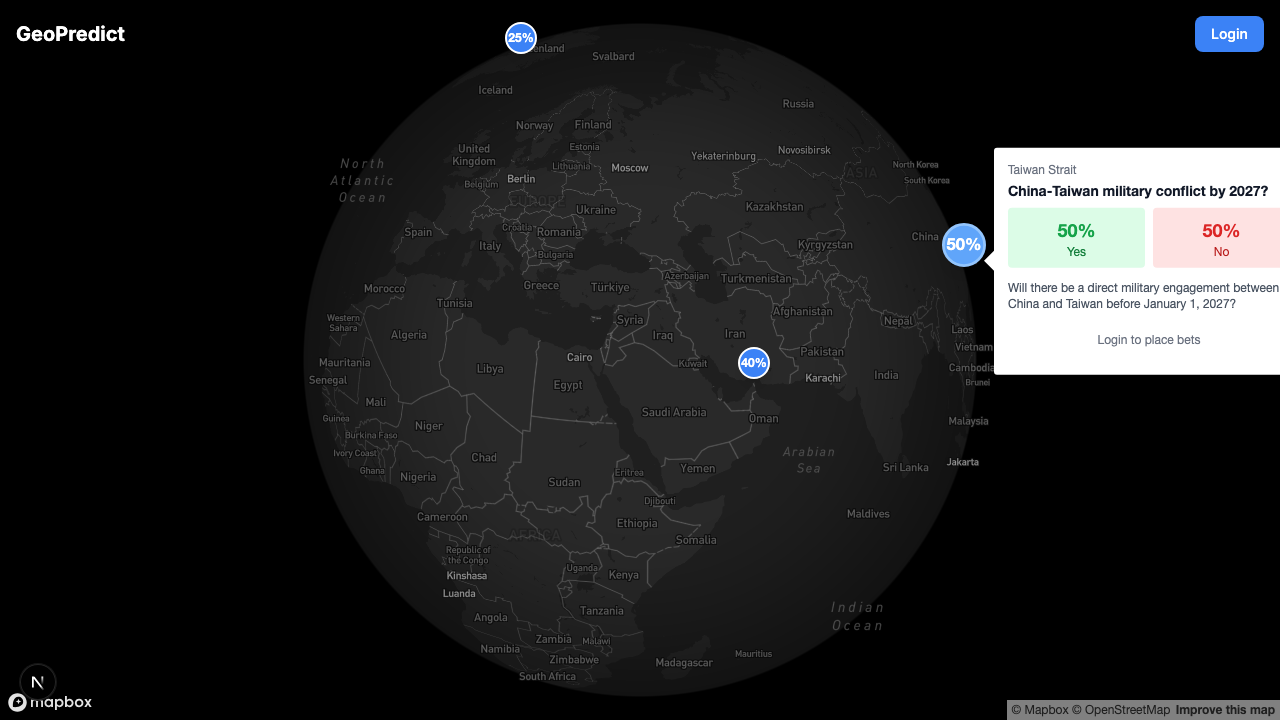
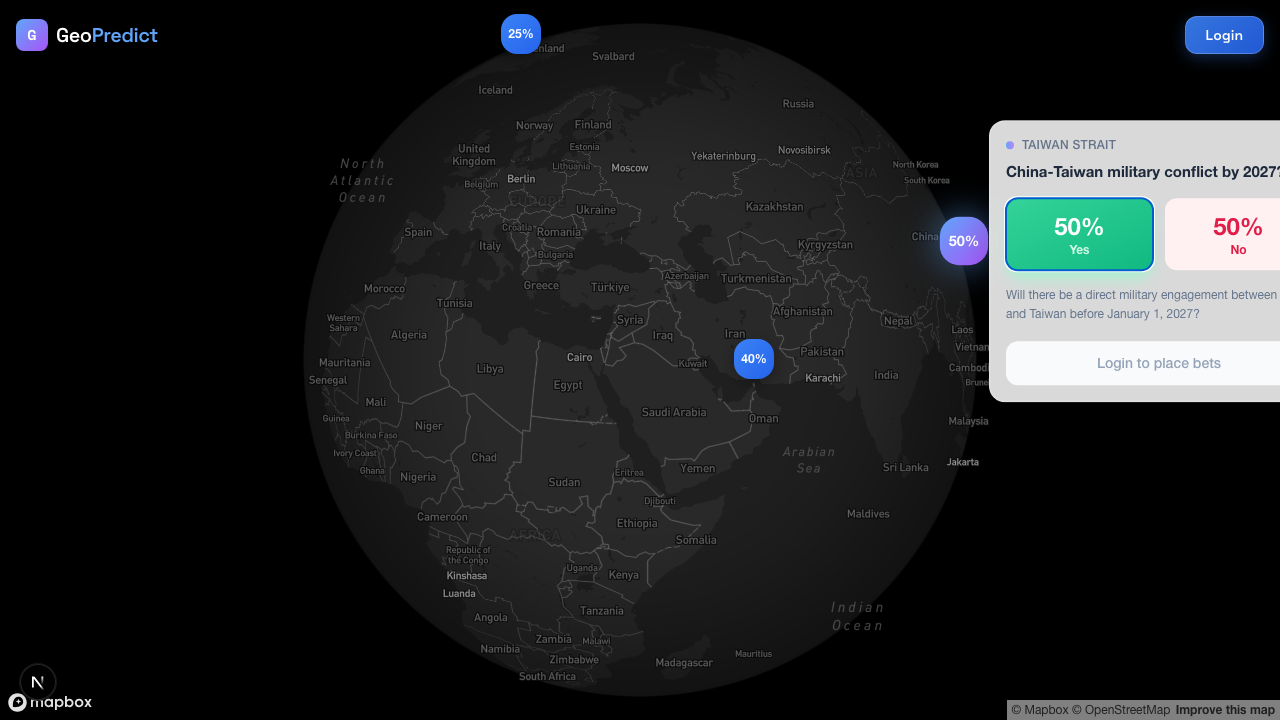
Add liquid glass UI with premium styling
- Switch to Space Grotesk font
- Add glassmorphism utilities (.glass, .glass-dark, .glass-light)
- Gradient markers with glow effects on selection
- Frosted glass popup with rounded corners
- Premium button styles with gradients and shadows
- Green/rose Yes/No selection buttons
- Logo redesign with gradient icon

diff --git a/src/components/map/Map.tsx b/src/components/map/Map.tsx
@@ -1,7 +1,7 @@
 'use client'
 
 import { useCallback, useState } from 'react'
-import MapGL, { Marker, Popup, NavigationControl, GeolocateControl } from 'react-map-gl'
+import MapGL, { Marker, Popup } from 'react-map-gl'
 import type { ViewStateChangeEvent } from 'react-map-gl'
 import 'mapbox-gl/dist/mapbox-gl.css'
 import type { MarketWithOdds } from '@/types'
@@ -36,8 +36,6 @@ export function Map({ markets, selectedMarket, onMarketSelect, userBalance, onBe
       mapboxAccessToken={MAPBOX_TOKEN}
       onClick={() => onMarketSelect(null)}
     >
-      {/* Navigation controls hidden for cleaner UI */}
-
       {markets.map((market) => (
         <Marker
           key={market.id}
@@ -49,18 +47,28 @@ export function Map({ markets, selectedMarket, onMarketSelect, userBalance, onBe
             onMarketSelect(market)
           }}
         >
-          <div
-            className="cursor-pointer transition-transform hover:scale-110"
-            title={market.title}
-          >
+          <div className="cursor-pointer transition-all duration-200 hover:scale-110">
             <div className="flex flex-col items-center">
-              <div className={`w-8 h-8 rounded-full flex items-center justify-center text-white text-xs font-bold shadow-lg border-2 ${
-                selectedMarket?.id === market.id ? 'bg-blue-400 border-blue-300 scale-125' : 'bg-blue-500 border-white'
-              }`}>
+              <div
+                className={`
+                  w-10 h-10 rounded-2xl flex items-center justify-center
+                  text-white text-xs font-bold shadow-lg
+                  transition-all duration-200
+                  ${selectedMarket?.id === market.id
+                    ? 'bg-gradient-to-br from-blue-400 to-purple-500 scale-110 marker-glow'
+                    : 'bg-gradient-to-br from-blue-500 to-blue-600 hover:from-blue-400 hover:to-blue-500'
+                  }
+                `}
+                style={{
+                  boxShadow: selectedMarket?.id === market.id
+                    ? '0 0 30px rgba(96, 165, 250, 0.6), 0 4px 15px rgba(0,0,0,0.3)'
+                    : '0 4px 15px rgba(0,0,0,0.3)',
+                }}
+              >
                 {Math.round(market.yesOdds * 100)}%
               </div>
-              {viewState.zoom > 4 && (
-                <div className="mt-1 px-2 py-1 bg-gray-900/90 rounded text-xs text-white max-w-[120px] truncate">
+              {viewState.zoom > 3.5 && (
+                <div className="mt-2 px-3 py-1.5 glass-dark rounded-lg text-xs text-white/90 max-w-[140px] truncate font-medium">
                   {market.title}
                 </div>
               )}
@@ -74,12 +82,11 @@ export function Map({ markets, selectedMarket, onMarketSelect, userBalance, onBe
           longitude={selectedMarket.longitude}
           latitude={selectedMarket.latitude}
           anchor="left"
-          offset={20}
+          offset={25}
           closeButton={true}
           closeOnClick={false}
           onClose={() => onMarketSelect(null)}
-          className="market-popup"
-          maxWidth="320px"
+          maxWidth="340px"
         >
           <MarketPopup
             market={selectedMarket}
@@ -125,43 +132,57 @@ function MarketPopup({
   }
 
   return (
-    <div className="p-1 min-w-[280px]">
-      <div className="text-xs text-gray-500 mb-1">{market.locationName}</div>
-      <h3 className="font-semibold text-sm text-gray-900 mb-2 leading-tight">{market.title}</h3>
-
-      <div className="flex gap-2 mb-3">
-        <div className="flex-1 bg-green-100 rounded p-2 text-center">
-          <div className="text-lg font-bold text-green-600">{Math.round(market.yesOdds * 100)}%</div>
-          <div className="text-xs text-green-700">Yes</div>
-        </div>
-        <div className="flex-1 bg-red-100 rounded p-2 text-center">
-          <div className="text-lg font-bold text-red-600">{Math.round(market.noOdds * 100)}%</div>
-          <div className="text-xs text-red-700">No</div>
-        </div>
+    <div className="p-4 min-w-[300px]">
+      <div className="flex items-center gap-2 mb-2">
+        <div className="w-2 h-2 rounded-full bg-gradient-to-r from-blue-400 to-purple-400"></div>
+        <span className="text-xs text-slate-500 font-medium uppercase tracking-wide">
+          {market.locationName}
+        </span>
       </div>
 
-      <p className="text-xs text-gray-600 mb-3 line-clamp-2">{market.description}</p>
+      <h3 className="font-semibold text-slate-800 mb-4 leading-snug text-[15px]">
+        {market.title}
+      </h3>
+
+      <div className="flex gap-3 mb-4">
+        <button
+          onClick={() => setPosition('yes')}
+          className={`flex-1 rounded-xl p-3 text-center transition-all duration-200 ${
+            position === 'yes'
+              ? 'bg-gradient-to-br from-emerald-400 to-emerald-500 text-white shadow-lg shadow-emerald-200'
+              : 'bg-emerald-50 hover:bg-emerald-100'
+          }`}
+        >
+          <div className={`text-2xl font-bold ${position === 'yes' ? 'text-white' : 'text-emerald-600'}`}>
+            {Math.round(market.yesOdds * 100)}%
+          </div>
+          <div className={`text-xs font-semibold ${position === 'yes' ? 'text-emerald-100' : 'text-emerald-600'}`}>
+            Yes
+          </div>
+        </button>
+        <button
+          onClick={() => setPosition('no')}
+          className={`flex-1 rounded-xl p-3 text-center transition-all duration-200 ${
+            position === 'no'
+              ? 'bg-gradient-to-br from-rose-400 to-rose-500 text-white shadow-lg shadow-rose-200'
+              : 'bg-rose-50 hover:bg-rose-100'
+          }`}
+        >
+          <div className={`text-2xl font-bold ${position === 'no' ? 'text-white' : 'text-rose-600'}`}>
+            {Math.round(market.noOdds * 100)}%
+          </div>
+          <div className={`text-xs font-semibold ${position === 'no' ? 'text-rose-100' : 'text-rose-600'}`}>
+            No
+          </div>
+        </button>
+      </div>
+
+      <p className="text-xs text-slate-500 mb-4 line-clamp-2 leading-relaxed">
+        {market.description}
+      </p>
 
       {userBalance > 0 ? (
-        <div className="space-y-2">
-          <div className="flex gap-1">
-            <button
-              onClick={() => setPosition('yes')}
-              className={`flex-1 py-1.5 rounded text-xs font-semibold transition ${
-                position === 'yes' ? 'bg-green-500 text-white' : 'bg-gray-100 text-gray-600'
-              }`}
-            >
-              Yes
-            </button>
-            <button
-              onClick={() => setPosition('no')}
-              className={`flex-1 py-1.5 rounded text-xs font-semibold transition ${
-                position === 'no' ? 'bg-red-500 text-white' : 'bg-gray-100 text-gray-600'
-              }`}
-            >
-              No
-            </button>
-          </div>
+        <div className="space-y-3">
           <div className="flex gap-2 items-center">
             <input
               type="number"
@@ -169,20 +190,23 @@ function MarketPopup({
               max={userBalance}
               value={amount}
               onChange={(e) => setAmount(Number(e.target.value))}
-              className="flex-1 px-2 py-1 border rounded text-sm"
+              className="flex-1 px-4 py-2.5 bg-slate-100 border-0 rounded-xl text-sm font-medium focus:ring-2 focus:ring-blue-400 focus:outline-none"
+              placeholder="Amount"
             />
             <button
               onClick={handleBet}
               disabled={isLoading || amount <= 0}
-              className="px-3 py-1 bg-blue-500 text-white rounded text-sm font-medium disabled:bg-gray-300"
+              className="px-6 py-2.5 bg-gradient-to-r from-blue-500 to-blue-600 hover:from-blue-400 hover:to-blue-500 text-white rounded-xl text-sm font-semibold disabled:opacity-50 disabled:cursor-not-allowed transition-all duration-200 shadow-lg shadow-blue-200"
             >
               {isLoading ? '...' : 'Bet'}
             </button>
           </div>
-          <div className="text-xs text-gray-400">Balance: {userBalance} credits</div>
+          <div className="text-xs text-slate-400 font-medium">
+            Balance: <span className="text-blue-500">{userBalance}</span> credits
+          </div>
         </div>
       ) : (
-        <div className="text-xs text-gray-500 text-center py-2">
+        <div className="text-sm text-slate-400 text-center py-3 bg-slate-50 rounded-xl font-medium">
           Login to place bets
         </div>
       )}

diff --git a/src/app/globals.css b/src/app/globals.css
@@ -16,3 +16,88 @@ body,
   bottom: 0;
   width: 100%;
 }
+
+/* Glassmorphism utilities */
+.glass {
+  background: rgba(255, 255, 255, 0.08);
+  backdrop-filter: blur(20px);
+  -webkit-backdrop-filter: blur(20px);
+  border: 1px solid rgba(255, 255, 255, 0.1);
+}
+
+.glass-dark {
+  background: rgba(0, 0, 0, 0.4);
+  backdrop-filter: blur(20px);
+  -webkit-backdrop-filter: blur(20px);
+  border: 1px solid rgba(255, 255, 255, 0.08);
+}
+
+.glass-light {
+  background: rgba(255, 255, 255, 0.75);
+  backdrop-filter: blur(20px);
+  -webkit-backdrop-filter: blur(20px);
+  border: 1px solid rgba(255, 255, 255, 0.3);
+  box-shadow: 0 8px 32px rgba(0, 0, 0, 0.1);
+}
+
+/* Override Mapbox popup styles for glassmorphism */
+.mapboxgl-popup-content {
+  background: rgba(255, 255, 255, 0.85) !important;
+  backdrop-filter: blur(20px) !important;
+  -webkit-backdrop-filter: blur(20px) !important;
+  border: 1px solid rgba(255, 255, 255, 0.3) !important;
+  box-shadow: 0 8px 32px rgba(0, 0, 0, 0.15), 0 0 0 1px rgba(255, 255, 255, 0.1) inset !important;
+  border-radius: 16px !important;
+  padding: 0 !important;
+  overflow: hidden;
+}
+
+.mapboxgl-popup-close-button {
+  font-size: 20px;
+  padding: 8px 12px;
+  color: #666;
+  right: 4px;
+  top: 4px;
+}
+
+.mapboxgl-popup-close-button:hover {
+  background: rgba(0, 0, 0, 0.05);
+  border-radius: 8px;
+}
+
+.mapboxgl-popup-tip {
+  display: none;
+}
+
+/* Subtle glow effect for markers */
+.marker-glow {
+  box-shadow: 0 0 20px rgba(59, 130, 246, 0.5), 0 0 40px rgba(59, 130, 246, 0.2);
+}
+
+/* Premium button styles */
+.btn-glass {
+  background: linear-gradient(135deg, rgba(255, 255, 255, 0.1), rgba(255, 255, 255, 0.05));
+  backdrop-filter: blur(10px);
+  border: 1px solid rgba(255, 255, 255, 0.15);
+  transition: all 0.2s ease;
+}
+
+.btn-glass:hover {
+  background: linear-gradient(135deg, rgba(255, 255, 255, 0.15), rgba(255, 255, 255, 0.08));
+  border-color: rgba(255, 255, 255, 0.25);
+  transform: translateY(-1px);
+}
+
+.btn-primary-glass {
+  background: linear-gradient(135deg, rgba(59, 130, 246, 0.9), rgba(37, 99, 235, 0.9));
+  backdrop-filter: blur(10px);
+  border: 1px solid rgba(255, 255, 255, 0.2);
+  box-shadow: 0 4px 15px rgba(59, 130, 246, 0.3);
+  transition: all 0.2s ease;
+}
+
+.btn-primary-glass:hover {
+  background: linear-gradient(135deg, rgba(59, 130, 246, 1), rgba(37, 99, 235, 1));
+  box-shadow: 0 6px 20px rgba(59, 130, 246, 0.4);
+  transform: translateY(-1px);
+}

diff --git a/src/app/page.tsx b/src/app/page.tsx
@@ -56,8 +56,8 @@ export default function Home() {
 
   if (!ready) {
     return (
-      <div className="w-full h-screen bg-gray-900 flex items-center justify-center">
-        <div className="text-white">Loading...</div>
+      <div className="w-full h-screen bg-slate-950 flex items-center justify-center">
+        <div className="text-white/60 text-lg tracking-wide">Loading...</div>
       </div>
     )
   }
@@ -66,24 +66,31 @@ export default function Home() {
     <main className="relative w-full h-screen overflow-hidden">
       {/* Header */}
       <header className="absolute top-0 left-0 right-0 z-40 p-4 flex items-center justify-between pointer-events-none">
-        <h1 className="text-xl font-bold text-white drop-shadow-lg">GeoPredict</h1>
+        <div className="flex items-center gap-2">
+          <div className="w-8 h-8 rounded-lg bg-gradient-to-br from-blue-400 to-purple-500 flex items-center justify-center">
+            <span className="text-white font-bold text-sm">G</span>
+          </div>
+          <h1 className="text-xl font-semibold text-white tracking-tight">
+            Geo<span className="text-blue-400">Predict</span>
+          </h1>
+        </div>
         <div className="flex items-center gap-3 pointer-events-auto">
           {authenticated && (
-            <div className="bg-gray-900/80 backdrop-blur px-3 py-1.5 rounded-lg text-white text-sm">
-              {userBalance} credits
+            <div className="glass-dark px-4 py-2 rounded-xl text-white/90 text-sm font-medium">
+              <span className="text-blue-400">{userBalance}</span> credits
             </div>
           )}
           {authenticated ? (
             <button
               onClick={logout}
-              className="bg-gray-900/80 backdrop-blur hover:bg-gray-800 px-4 py-2 rounded-lg text-white text-sm transition-colors"
+              className="btn-glass px-4 py-2 rounded-xl text-white/90 text-sm font-medium"
             >
               Logout
             </button>
           ) : (
             <button
               onClick={login}
-              className="bg-blue-500 hover:bg-blue-600 px-4 py-2 rounded-lg text-white text-sm font-medium transition-colors"
+              className="btn-primary-glass px-5 py-2 rounded-xl text-white text-sm font-semibold"
             >
               Login
             </button>

diff --git a/src/app/layout.tsx b/src/app/layout.tsx
@@ -1,9 +1,12 @@
 import type { Metadata } from 'next'
-import { Inter } from 'next/font/google'
+import { Space_Grotesk } from 'next/font/google'
 import './globals.css'
 import { Providers } from '@/components/providers/Providers'
 
-const inter = Inter({ subsets: ['latin'] })
+const spaceGrotesk = Space_Grotesk({
+  subsets: ['latin'],
+  variable: '--font-space-grotesk',
+})
 
 export const metadata: Metadata = {
   title: 'GeoPredict - Geopolitics Prediction Markets',
@@ -17,7 +20,7 @@ export default function RootLayout({
 }) {
   return (
     <html lang="en">
-      <body className={inter.className}>
+      <body className={`${spaceGrotesk.className} antialiased`}>
         <Providers>{children}</Providers>
       </body>
     </html>
